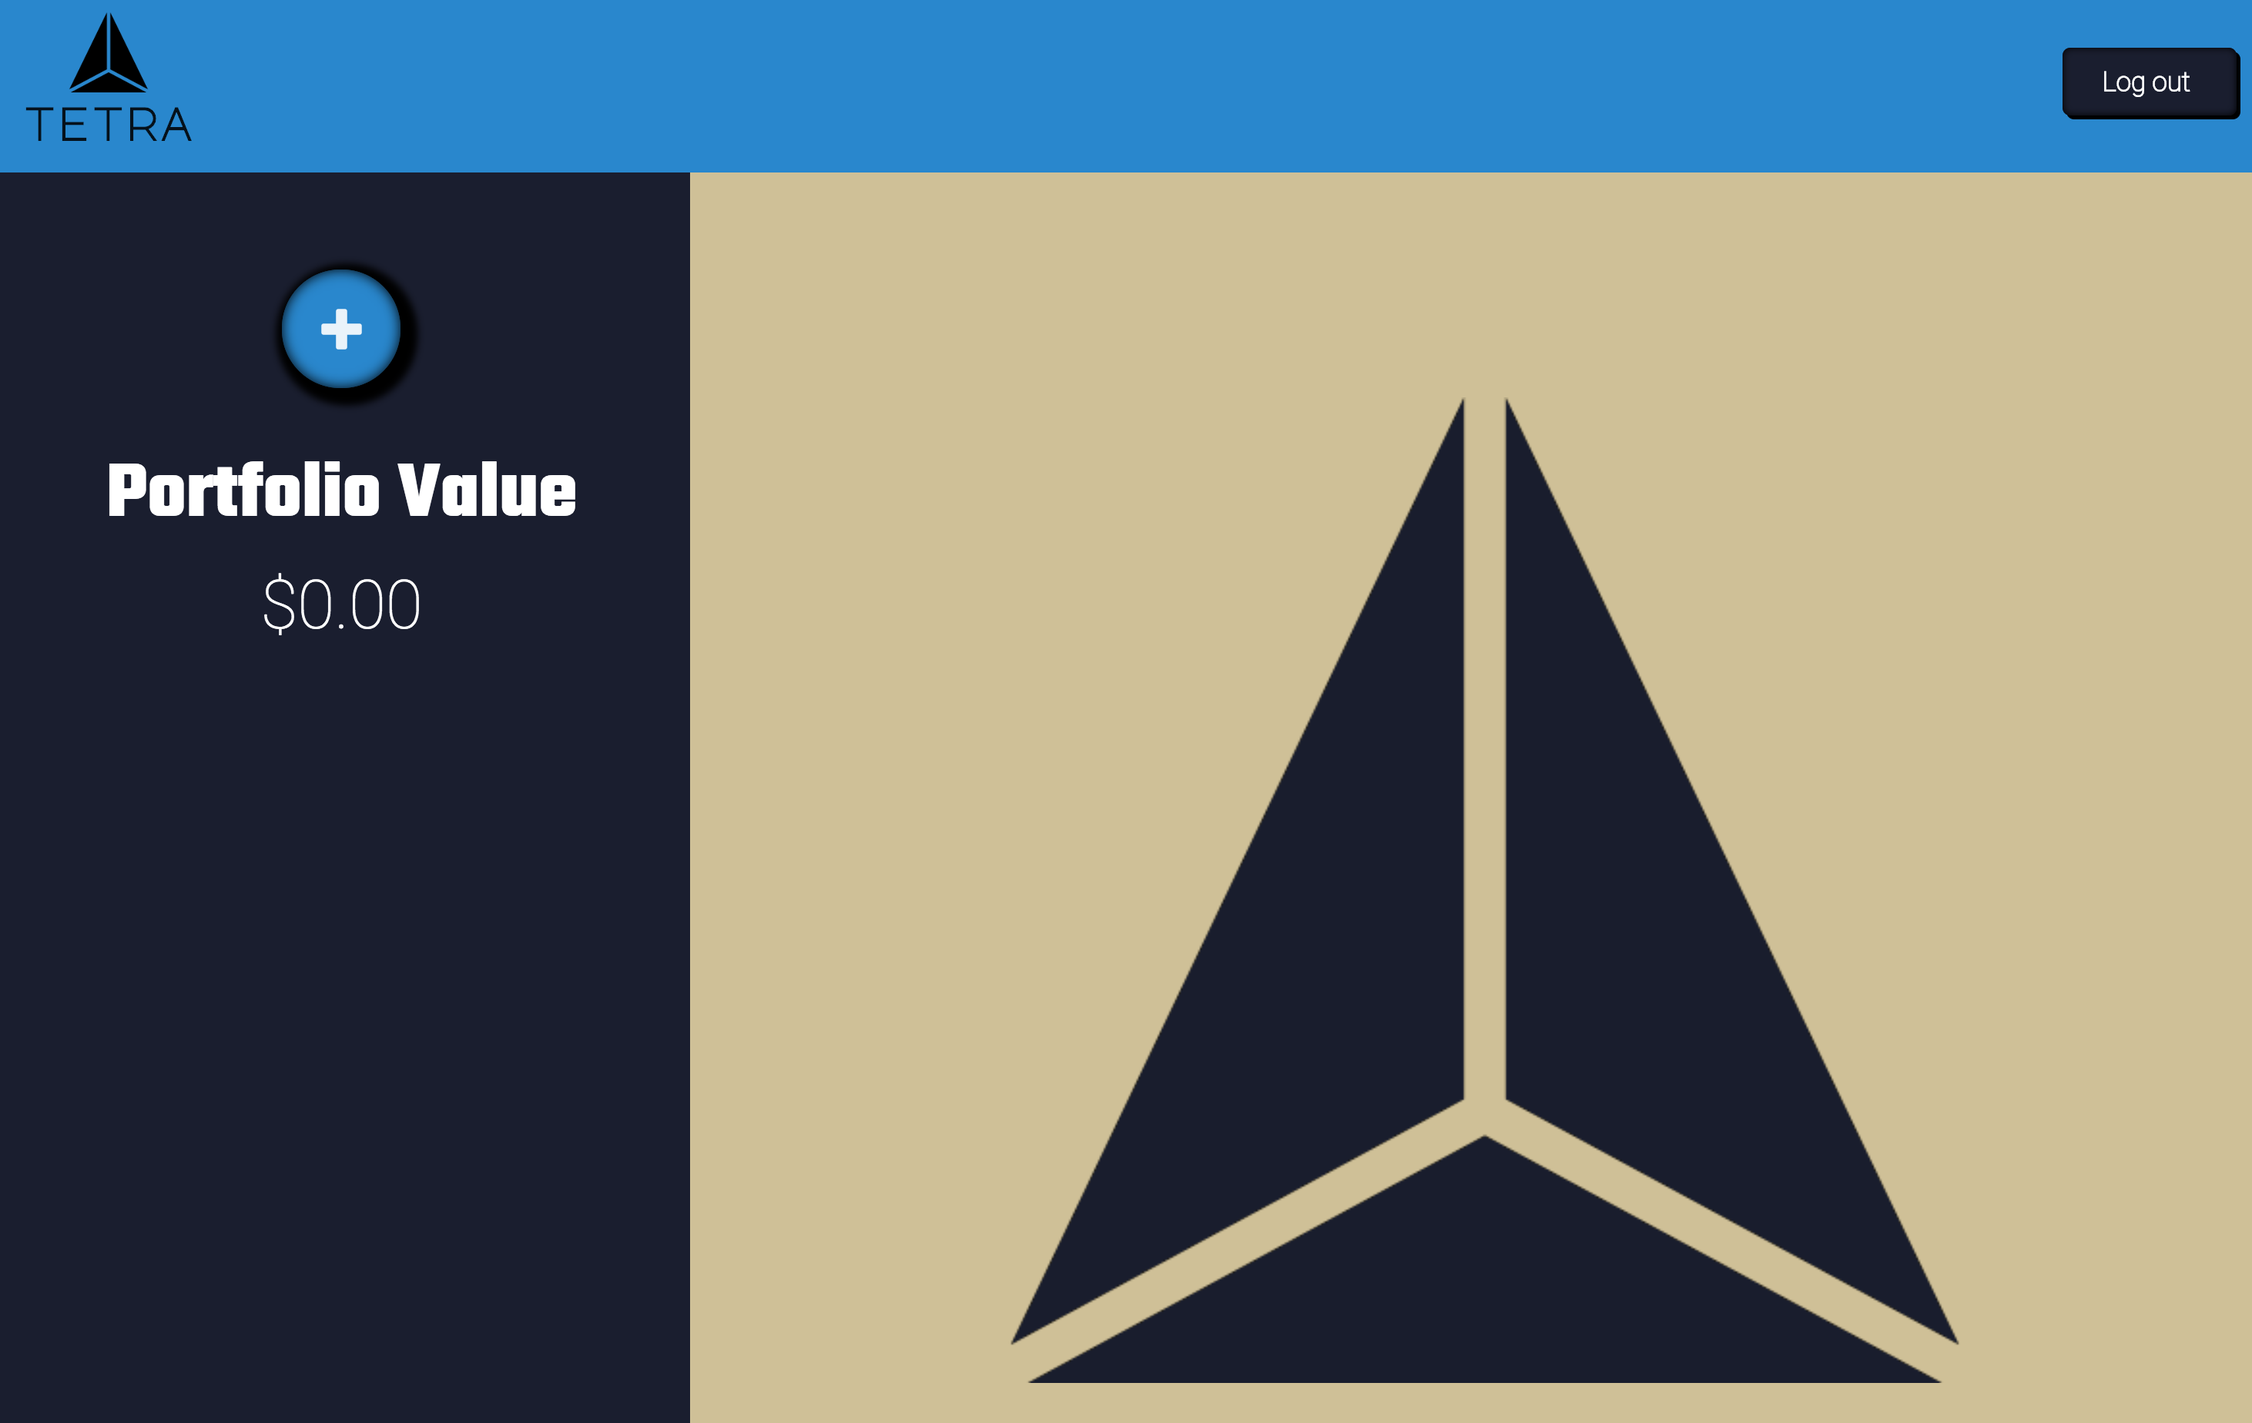
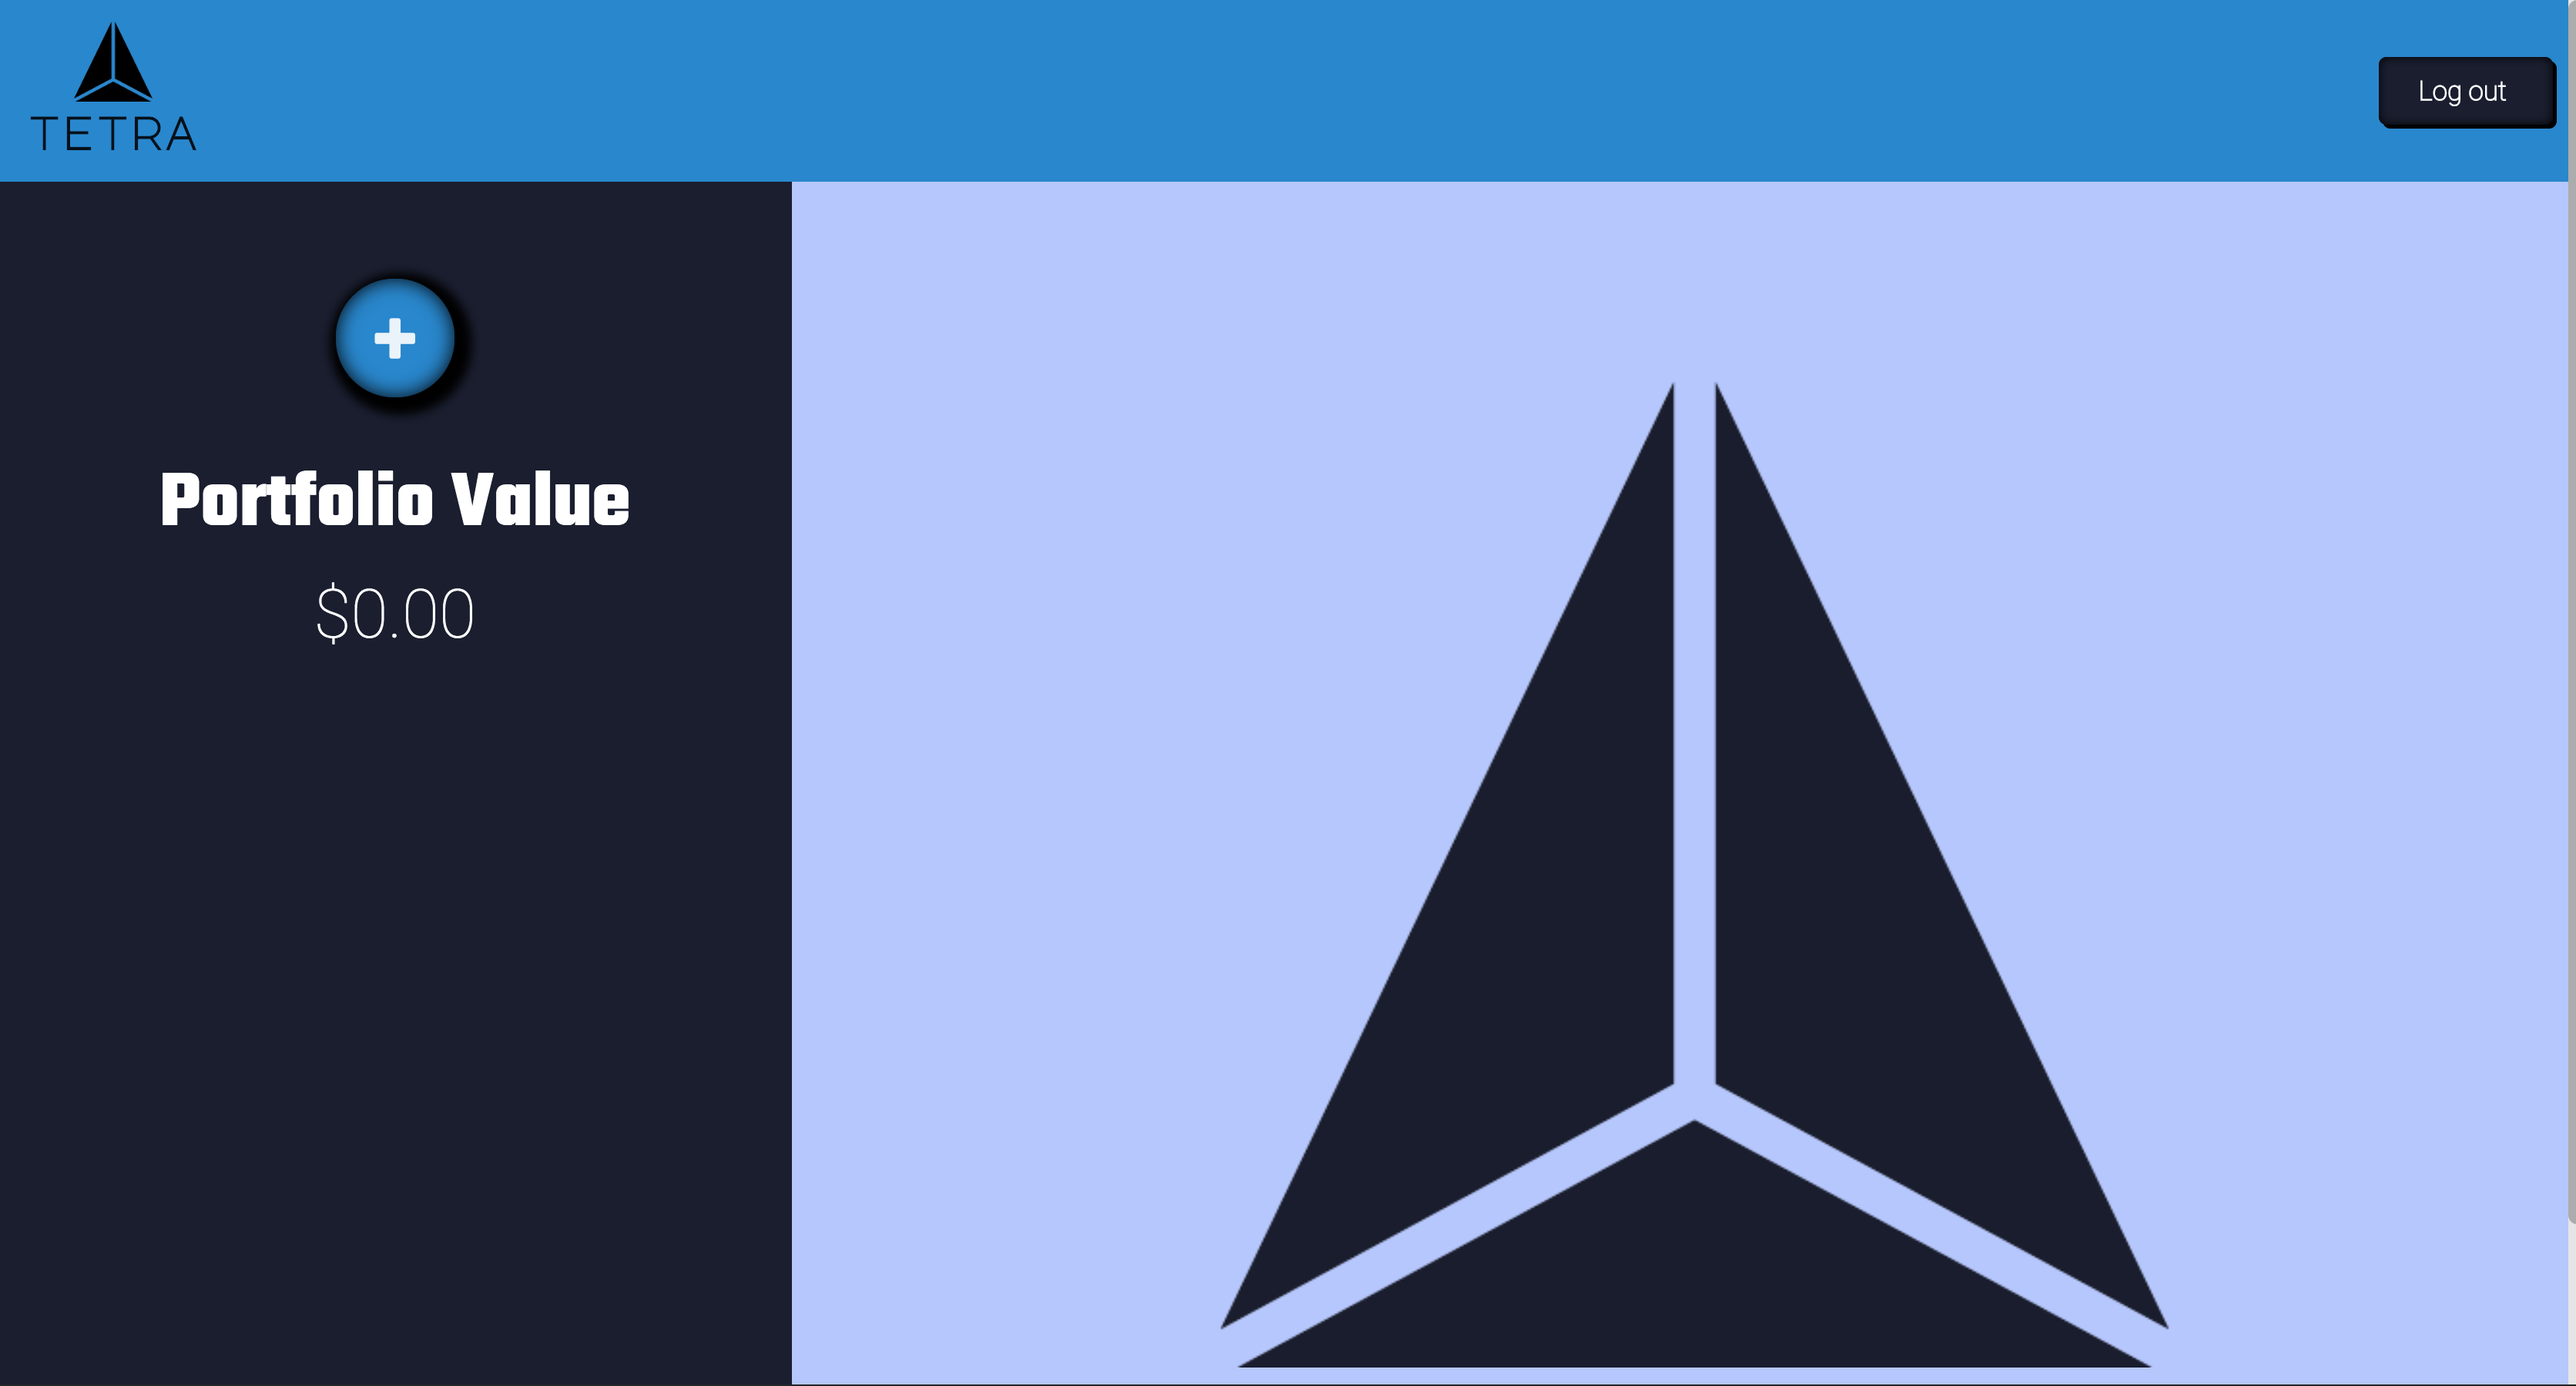
update tetra images, job desriptions

diff --git a/src/lib/jobs.js b/src/lib/jobs.js
@@ -1,18 +1,27 @@
 export default [
   {
+    name: 'DoorDash',
+    image: './images/icons/doordash.png',
+    date: 'June 2019 - present',
+    detail: 'Drive Live Ops',
+    description: `Monitoring DoorDash deliveries in real time to ensure the highest level of service. Built Chrome extension that greatly
+        augments internal tooling, providing more meaningful data to the Drive team, increasing job ease, accuracy and performance.` 
+  },
+  {
     name: 'MBT One LLC, DBA Valid Strategy',
     image: './images/icons/dollar.png',
     date: 'June 2018 - October 2018',
     detail: 'Contract Software Developer',
-    description: 'Valid Strategy was a local fintech startup. With MBT One, I was the sole developer on a project with the goal of automatically trading financial assets via online exchanges. Strategic news sources were scraped and text' +
-      ' analyzed against derived key words and phrases to make trading decisions. When optimal conditions were met, trades were automatically executed on relevant exchanges and notifications sent via SMS.'
+    description: `Sole developer of automated trading financial asset platform, using web scraping, textual analysis and multiple
+        exchange APIs. Built in NodeJS.`
   },
   {
     name: 'Weebly',
     image: './images/icons/Weebly.png',
     date: 'October 2015 - September 2017',
     detail: 'Customer Success Advocate',
-    description: 'Weebly is a build-your-own-website SaaS company. While with Weebly, I began as a Customer Success Advocate on the Chat Team. Over time, I grew my' +
-      'roll as a mentor to new employees, and was eventually placed on a newly formed team as a founding member, tasked with analyzing support ticket traffic and deriving new systems and strategies to optimize ticket response quality and time.'
+    description: `Customer Success Advocate responsible for supporting Weeblys DIY WYSIWYG website editor, as well as consulting on
+      web desgin best practices and how to best use the platform to meet business goals. Later placed on a pilot team
+      tasked with analyzing support ticket traffic and deriving new systems and strategies to optimize workflow.`
   }
 ]

diff --git a/src/lib/projectList.js b/src/lib/projectList.js
@@ -81,11 +81,11 @@ export default [
   {
     name: 'Tetra',
     type: 'full',
-    image: './images/Tetra.jpg',
+    image: './images/Tetra4.png',
     description: `Tetra is a cryptocurrency portfolio manager. Users create their own accounts, and then add their own assets, or assets 
       they would like to track to their dashboard. Balances for each asset can be added, and then used to calculate a total portfolio balance. 
       A demo account can be accessed under demo@demo.com:demodemo.`,
-    slideshow: ['Tetra1.png', 'Tetra2.png', 'Tetra3.png', 'Tetra4.png'],
+    slideshow: ['Tetra1.png', 'Tetra2.png', 'Tetra3.png', 'Tetra4.png', 'Tetra5.png'],
     live: 'https://tetra-crypto.herokuapp.com/',
     hostIcon: 'fab fa-github',
     repo: 'https://github.com/brumack/tetra',
